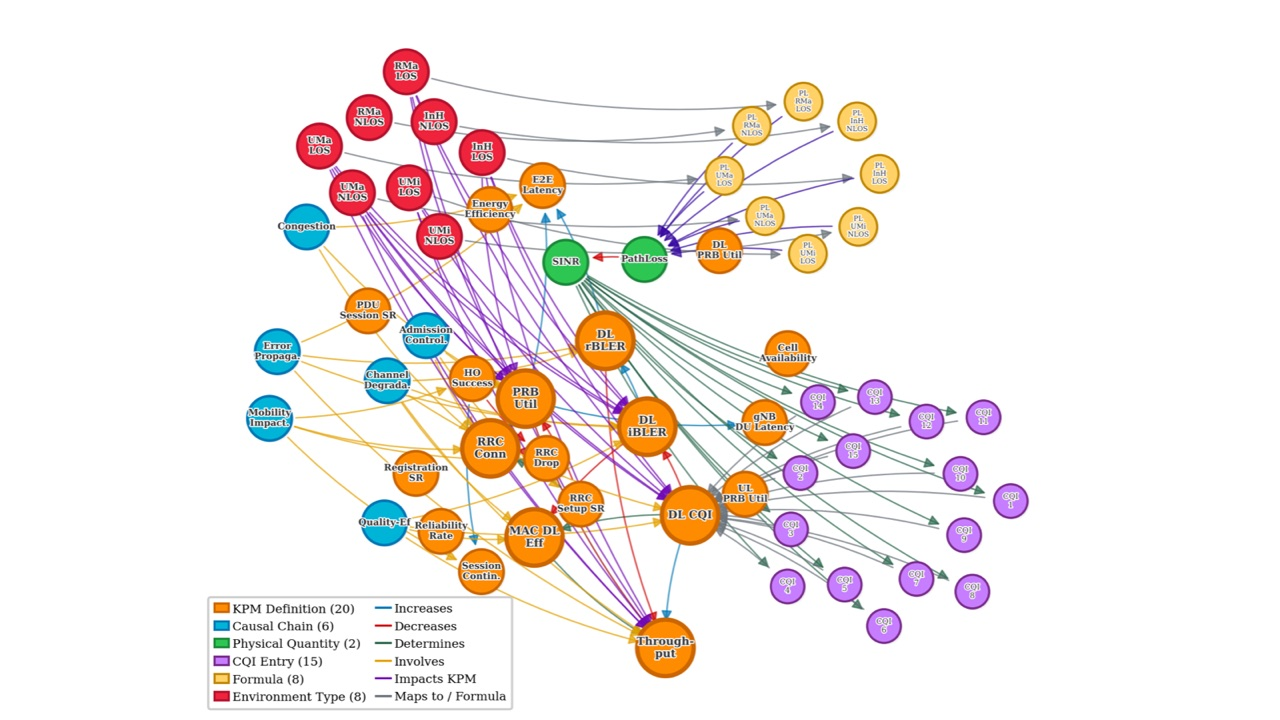
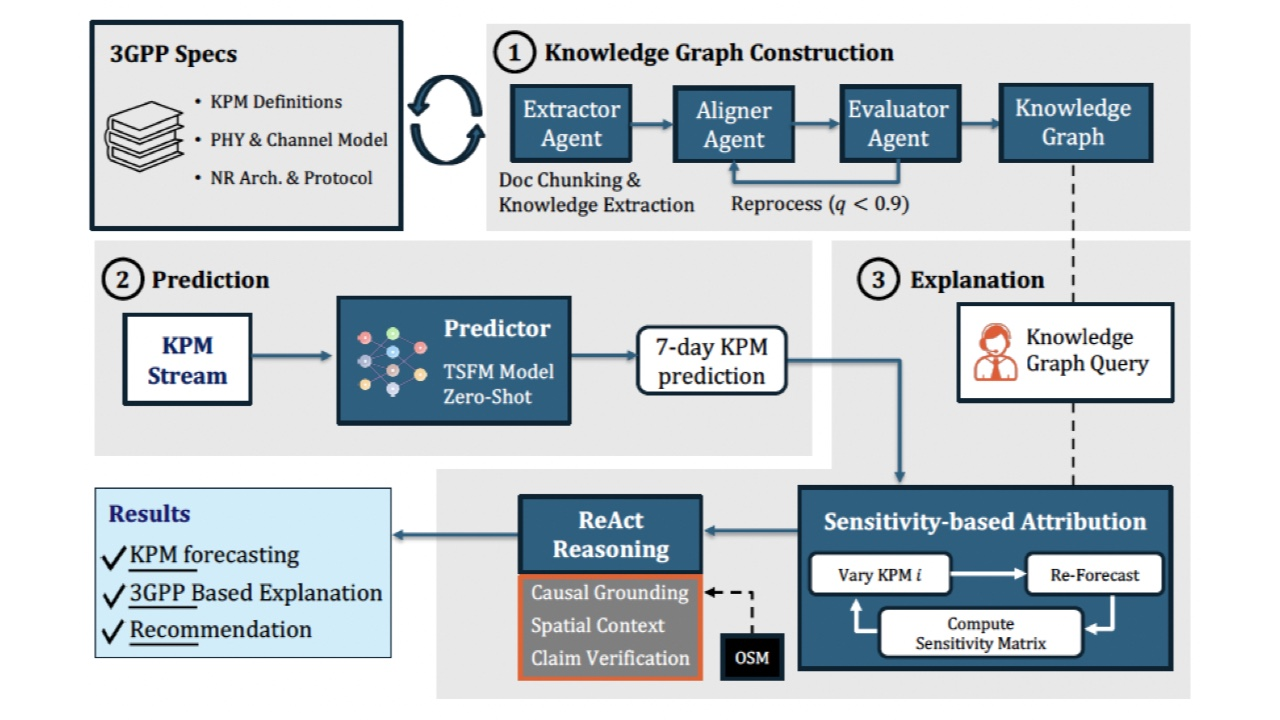
Swap project images to real figures; rename Green AI -> SKT Energy Saving
- TelcoAgent: use the full system-architecture figure (3GPP specs ->
  knowledge-graph construction -> prediction -> explanation -> results),
  replacing the bare knowledge-graph render
- Rename "Green AI for RAN" -> "SKT Energy Saving" with the RB-usage
  spatiotemporal figure (6AM vs 6PM normalized RB used)
- Optimize both to JPEG (project images now ~496 KB total)

diff --git a/src/data/projects.js b/src/data/projects.js
@@ -22,9 +22,9 @@ export const projects = [
     ]
   },
   {
-    name: "Green AI for RAN",
-    image: "/img/projects/green-ai.png",
-    desc: "Traffic forecasting for cell sleeping — energy-saving ROI on a commercial 5G testbed (SKT).",
+    name: "SKT Energy Saving",
+    image: "/img/projects/skt-energy.jpg",
+    desc: "Spatiotemporal traffic forecasting for base-station cell sleeping — energy-saving ROI on SKT's commercial network.",
     links: []
   }
 ];
